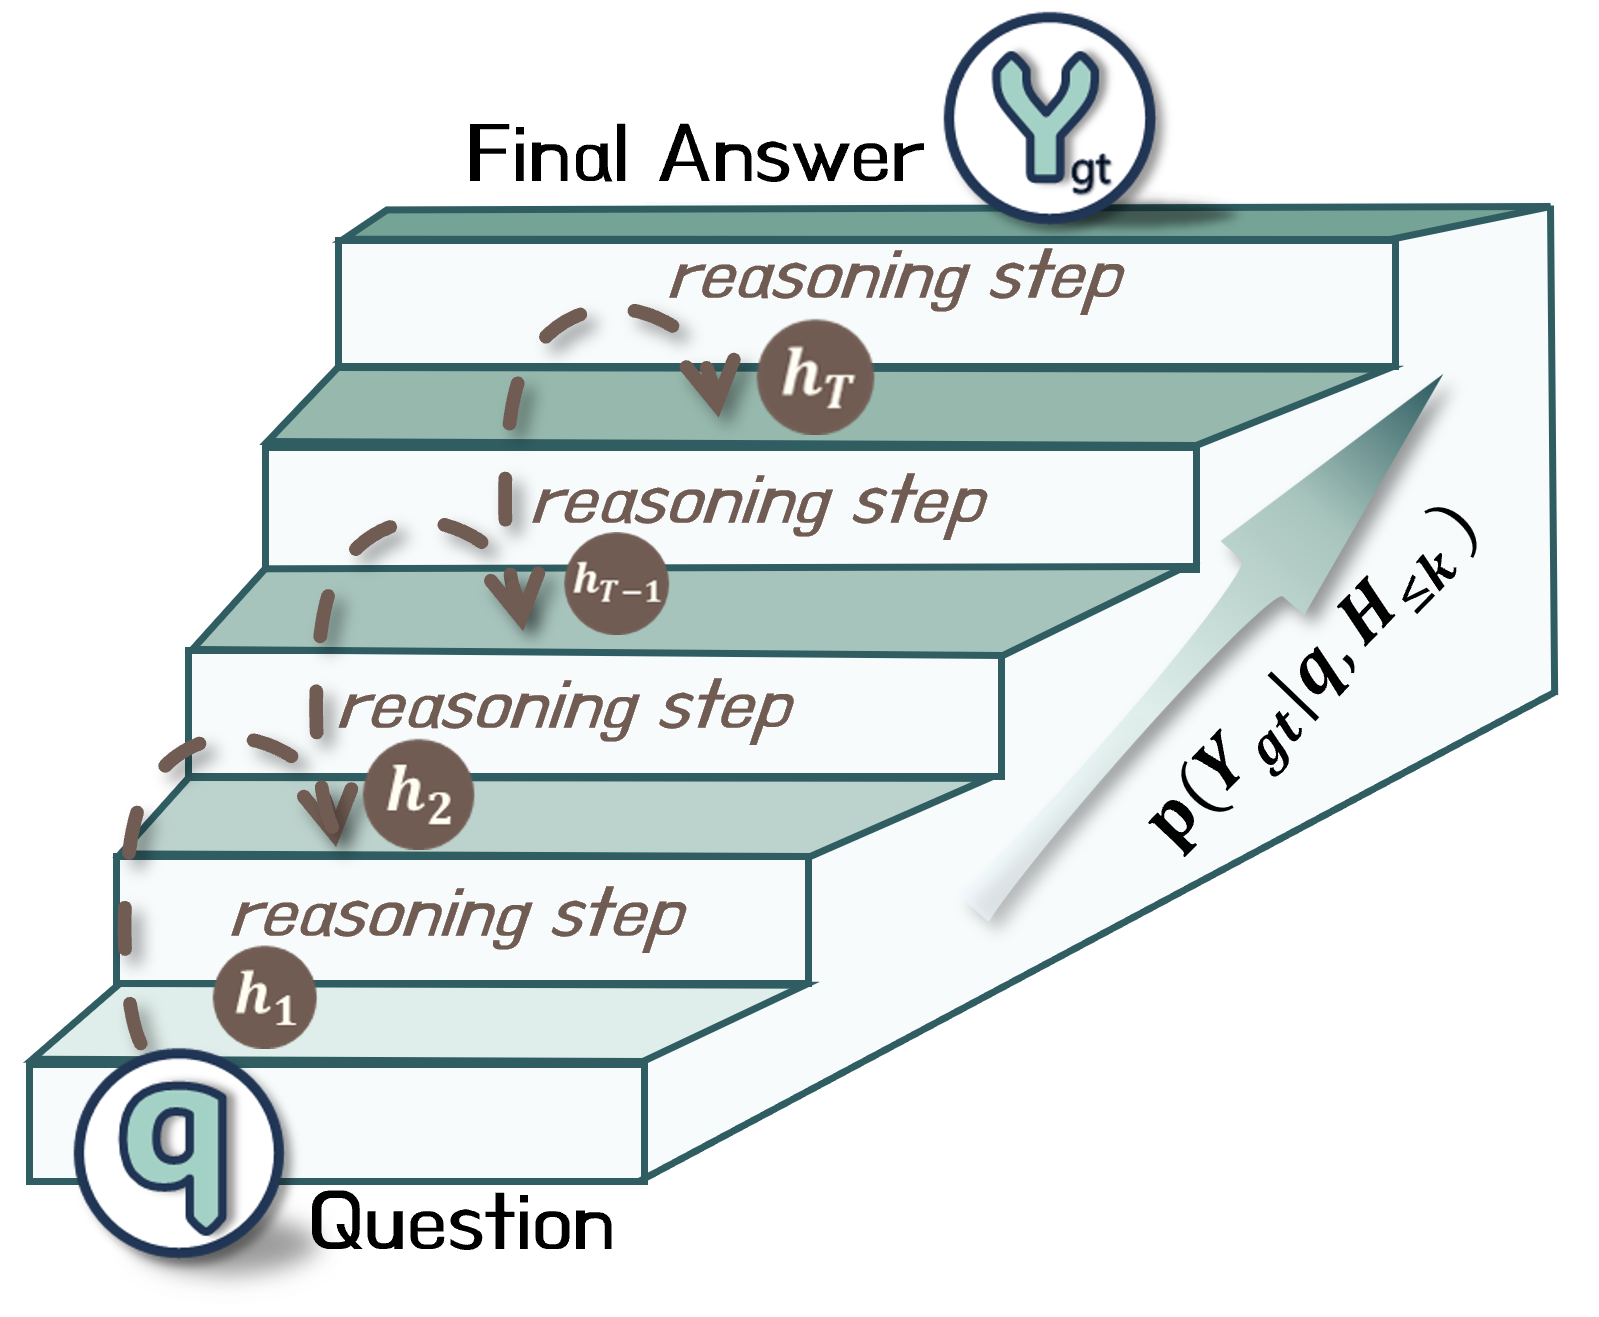
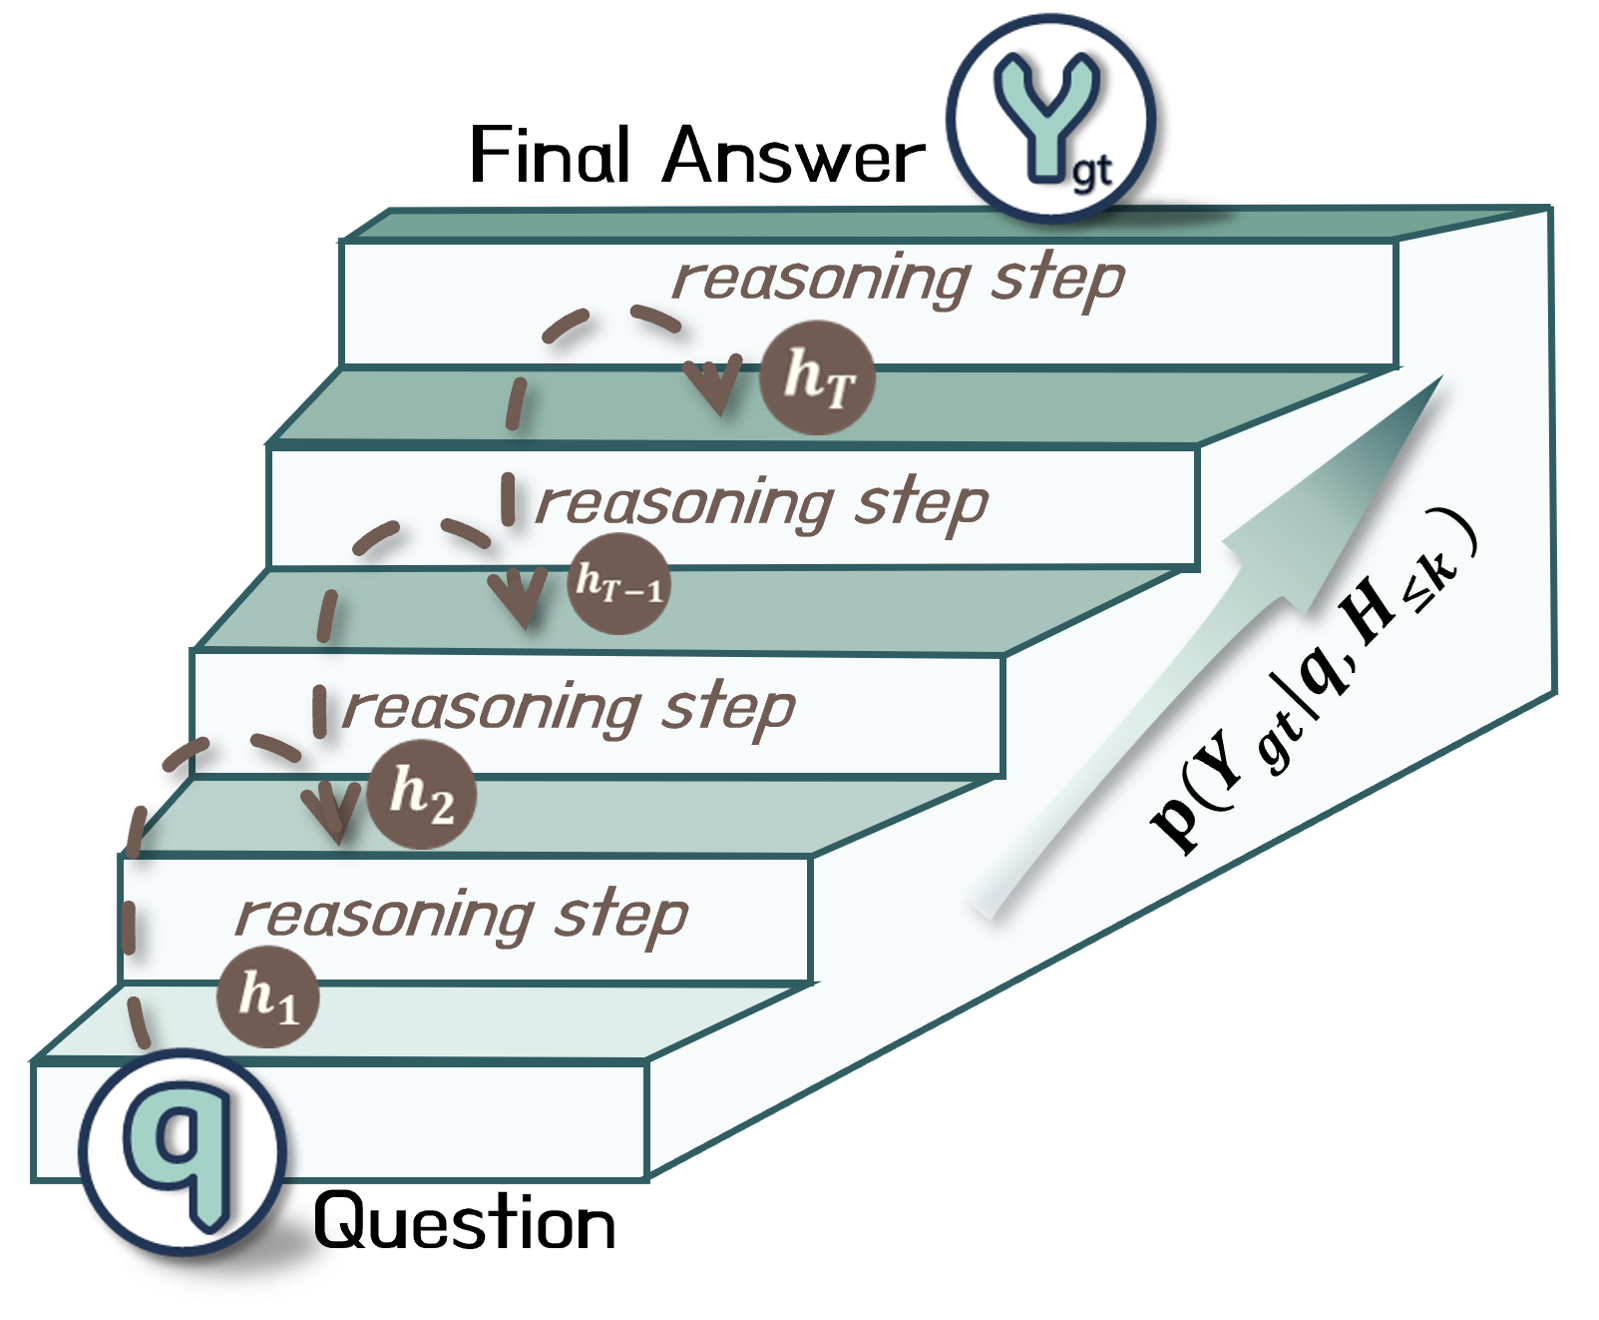
Refactor about section content for clarity; enhance layout of tools and navigation for better usability

diff --git a/_pages/about.md b/_pages/about.md
@@ -54,11 +54,7 @@ latest_posts:
 </p>
 
 <p>
-  My research interests lie in multimodal large language models, knowledge distillation, agentic AI, multi-agent systems, and physical AI. Recently, my work has focused on improving the reasoning and visual grounding capabilities of multimodal large language models.
-</p>
-
-<p>
-  Beyond multimodal language models, I am interested in building AI systems that can interact with complex environments through perception, reasoning, and action. This includes vision-language-action models, embodied AI, and agentic systems that can communicate, refine their decisions, and operate more reliably in real-world scenarios.
+  My research focuses on enhancing the visual grounding and reasoning capabilities of Multimodal Large Language Models (MLLMs). Ultimately, I aim to advance <strong>Embodied and Agentic AI systems</strong>—spanning physical, interactive, and multi-agent AI—that bridge the gap between perception and action to operate reliably in complex environments.
 </p>
 
 {% include manual_socials.liquid %}
@@ -85,10 +81,6 @@ body.fixed-top-nav {
   right: 1.5rem;
   top: 1rem;
   z-index: 10000;
-}
-
-.single-page-tools:empty {
-  display: none;
 }
 
 .single-page-tools #light-toggle {
@@ -177,7 +169,17 @@ h2 {
   }
 
   .single-page-tools {
-    top: 3.25rem;
+    align-items: center;
+    display: flex !important;
+    flex: 0 0 auto;
+    order: -1;
+    position: static;
+  }
+
+  .single-page-tools #light-toggle {
+    font-size: 1rem;
+    height: 1.6rem;
+    width: 1.6rem;
   }
 }
 </style>
@@ -185,11 +187,28 @@ h2 {
 <script>
   document.addEventListener("DOMContentLoaded", function () {
     var tools = document.querySelector(".single-page-tools");
+    var jumpNav = document.querySelector(".section-jump-nav");
     var toggle = document.querySelector("#light-toggle");
+    var mediaQuery = window.matchMedia("(max-width: 1200px)");
 
     if (tools && toggle) {
       tools.appendChild(toggle);
       tools.style.display = "flex";
     }
+
+    function placeTools() {
+      if (!tools || !jumpNav) {
+        return;
+      }
+
+      if (mediaQuery.matches) {
+        jumpNav.insertBefore(tools, jumpNav.firstChild);
+      } else {
+        document.body.insertBefore(tools, document.body.firstChild);
+      }
+    }
+
+    placeTools();
+    mediaQuery.addEventListener("change", placeTools);
   });
 </script>